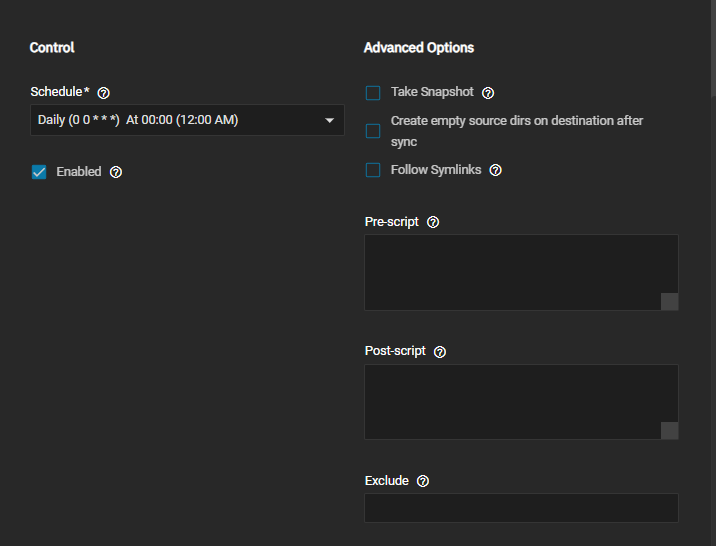
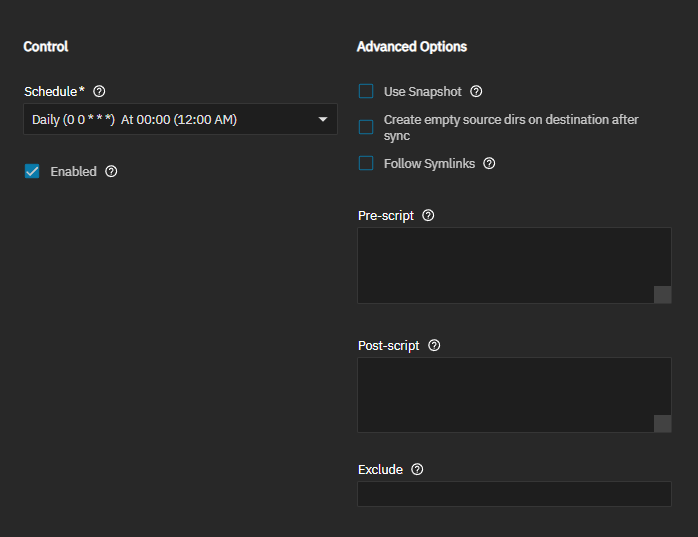
PD-1750 Update UI Ref and Tutorials
This PR updates the TrueCloudBackupTasksScreen.md and CloudSynctTaskScreensSCALE.md articles with new screenshots of the add task advanced options replcating Take Snapshot with Use Snapshot descritpions.
It also updates the TrueCloudTasks.md tutorial by adding the new screenshot and description of using the Use Snaphsot setting. It also removes the commented out bits on the removed Take Snapshot option.

diff --git a/content/SCALE/SCALETutorials/DataProtection/TrueCloudTasks.md b/content/SCALE/SCALETutorials/DataProtection/TrueCloudTasks.md
@@ -19,7 +19,7 @@ TrueNAS can send, receive, or synchronize data with the cloud storage providers 
 TrueCloud backup tasks allow for single-time transfers or recurring transfers on a schedule.
 They are an effective method to back up data to a remote location.
 
-This article provides instructions on configuring a TrueCloud backup task using Storj and covers setting up both the Storj iX account and TrueNAS credential.
+This article provides instructions on configuring a TrueCloud backup task using Storj and covers setting up the Storj iX account and TrueNAS credential.
 
 {{< hint type=important >}}
 To take advantage of the lower-cost benefits of the TrueCloud backup service, you must create your Storj iX account using the link provided on the **Add Cloud Credentials** screen.
@@ -71,7 +71,7 @@ To add the TrueCloud backup task, go to **Data Protection > TrueCloud Backup Tas
 3. Select the Storj credential on the **Credentials** dropdown list.
    You can select **Add New** to create the Storj credential if you skipped the instructions above.
 
-4. Select the Storj bucket to use from the **Bucket** dropdown list.
+4. Select the Storj bucket from the **Bucket** dropdown list.
 
    If you have not previously created a TrueNAS compatible Storj bucket, select **Add New** and follow the procedure in [Creating a TrueNAS Storj Bucket](#creating-a-truenas-storj-bucket).
 
@@ -103,9 +103,7 @@ The task status changes to **SUCCESS** when complete.
 
 {{< trueimage src="/images/SCALE/DataProtection/AddTrueCloudTaskAdvancedOptions.png" alt="Add TrueCloud Backup Task Advanced Options" id="Add TrueCloud Backup Task Advanced Options" >}}
 
-<!-- <to be re-added at a later date> To take a snapshot before transferring data to Storj, select **Take Snapshot**.
-This option is not available for datasets with child datasets.
--->
+Select **Use Snapshot** to create and use a snapshot to back up or synchronize the operation between TrueNAS and the TrueCloud backup solution. This snapshot is automatically removed after the operation completes.
 
 Advanced users can write scripts that run immediately before or after the TrueCloud backup task.
 Enter environment variables in either the **Pre-script** or **Post-script** fields.

diff --git a/content/SCALE/SCALEUIReference/DataProtection/CloudSyncTasksScreensSCALE.md b/content/SCALE/SCALEUIReference/DataProtection/CloudSyncTasksScreensSCALE.md
@@ -171,7 +171,7 @@ Selecting **Push** in **Direction** adds the **Take Snapshot** option in **Advan
 {{< truetable >}}
 | Settings | Description |
 |----------|-------------|
-|**Use Snapshot** | This option ensures data consistency by creating a snapshot at the start of the backup or synchronization task. The process involves the following steps:<br>1. Snapshot Creation: A snapshot of the current state is taken when the task is initiated.<br>2. Backup/sync operation: The task utilizes the snapshot contents to perform the backup or synchronization, ensuring that the data remains consistent and unchanged during the operation.<br>3. Snapshot removal: After the task completes, the snapshot is automatically removed to save storage space.<br>This mechanism guarantees that the backup or synchronization task captures an exact state of your data at the start, even if changes occur during the process. |
+|**Use Snapshot** | Select to ensure data consistency by creating a snapshot at the start of the backup or synchronization task. The process involves:<br>1. Create a snapshot of the current state, taken when the task is initiated.<br>2. Back up and sync operation. The task uses the snapshot contents to perform the backup or synchronization to ensure the data remains consistent and unchanged during the operation.<br>3. Remove the snapshot after the task completes to save storage space.<br>This mechanism guarantees that the backup or synchronization task captures an exact state of your data at the start, even if changes occur during the process. |
 | **Create empty source dirs on destination after sync** | Select to create an empty source directory in the cloud storage provider folder when pushing data to the cloud provider location, or in TrueNAS if pulling data from the cloud storage provider. |
 | **Follow Symlinks** | Select to follow symbolic links (symlinks) and copy the items to which they link. |
 | **Pre-Script** | For advanced users. Enter a script to execute before running sync. See the [Cloud Sync tutorial]({{< relref "/SCALE/SCALETutorials/DataProtection/CloudSyncTasks/_index.md" >}}) for more information. |

diff --git a/content/SCALE/SCALEUIReference/DataProtection/TrueCloudBackupTasksScreen.md b/content/SCALE/SCALEUIReference/DataProtection/TrueCloudBackupTasksScreen.md
@@ -174,13 +174,11 @@ The **Remote** settings specify the TrueCloud credential and destination storage
 
 {{< trueimage src="/images/SCALE/DataProtection/AddTrueCloudTaskAdvancedOptions.png" alt="Add TrueCloud Backup Task - Advanced Options" id="Add TrueCloud Backup Task - Advanced Options" >}}
 
-<!-- <to be re-added to the table at a later date> | **Take Snapshot** | Select to take a snapshot before transferring data to the specified cloud provider like Storj. This option is not available to datasets with child datasets. |-->
-
 {{< truetable >}}
 | Settings | Description |
 |----------|-------------|
-| **Take Snapshot** | Select to set the TrueCloud Backup Task to take a snapshot of the dataset before a push. |
-| **Use Absolute Paths** | Select to ensure that restic backups will contain absolute paths. If you don't check this box, the restic backup will contain relative paths. |
+| **Use Snapshot** | Select to set the TrueCloud Backup Task to use a snapshot of the dataset before a push transfer. |
+| **Use Absolute Paths** | Select to ensure that restic backups contain absolute paths. If you not selecte, the restic backup contains relative paths. |
 | **Pre-Script** | (For advanced users only) Enter a script to execute before running the task. See the [Managing TrueCloud Backup Tasks tutorial]({{< relref "TrueCloudTasks.md #using-advanced-options" >}}) for more information. See **Script Environment Variables** below for a list of variables for scripts. |
 | **Post-Script** | (For advanced users only) Enter a script to execute after running the task. See the [Managing TrueCloud Backup Tasks tutorial]({{< relref "TrueCloudTasks.md #using-advanced-options" >}}) for more information. See **Script Environment Variables** below for a list of variables for scripts. |
 | **Exclude** | Enter a list of files and directories to exclude from the backup. Separate entries by pressing <kbd>Enter</kbd>. See [restic exclude patterns](https://restic.readthedocs.io/en/latest/040_backup.html#excluding-files) for more information about the `--exclude` option and proper syntax. |
